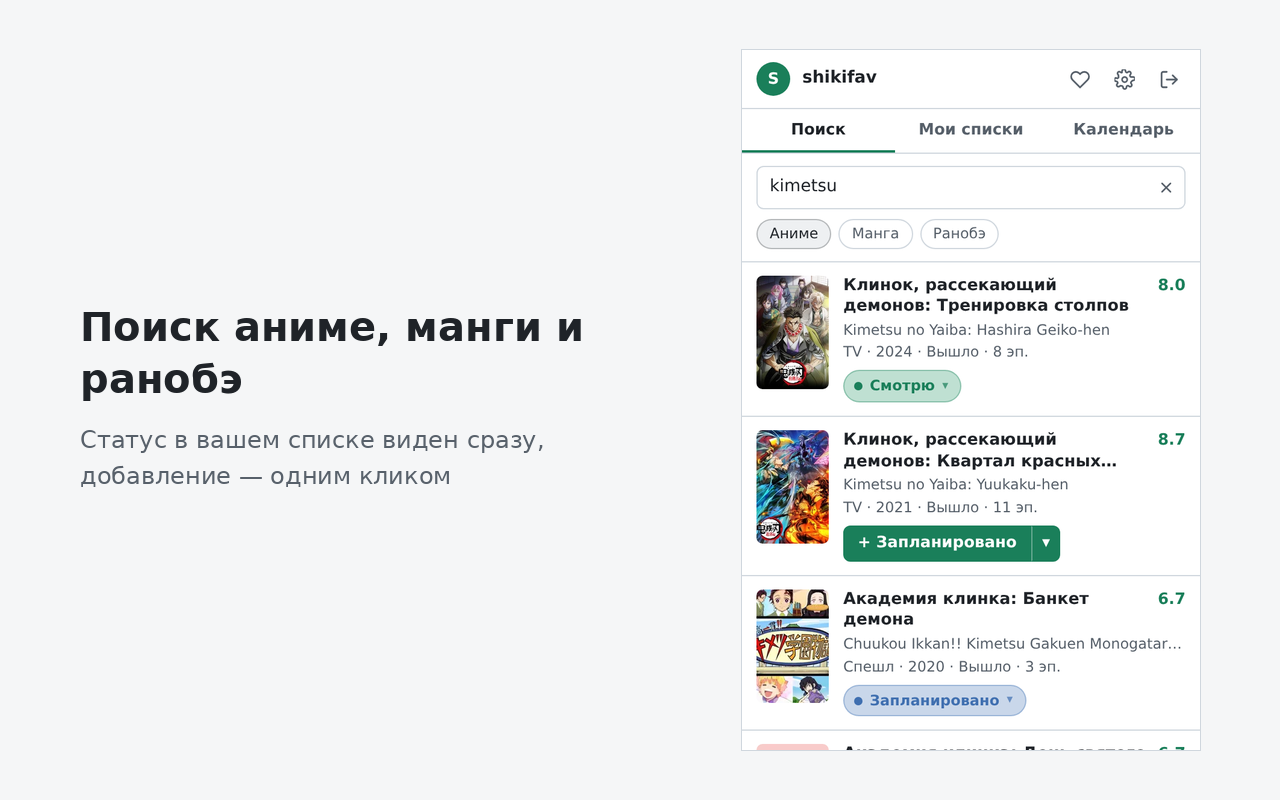
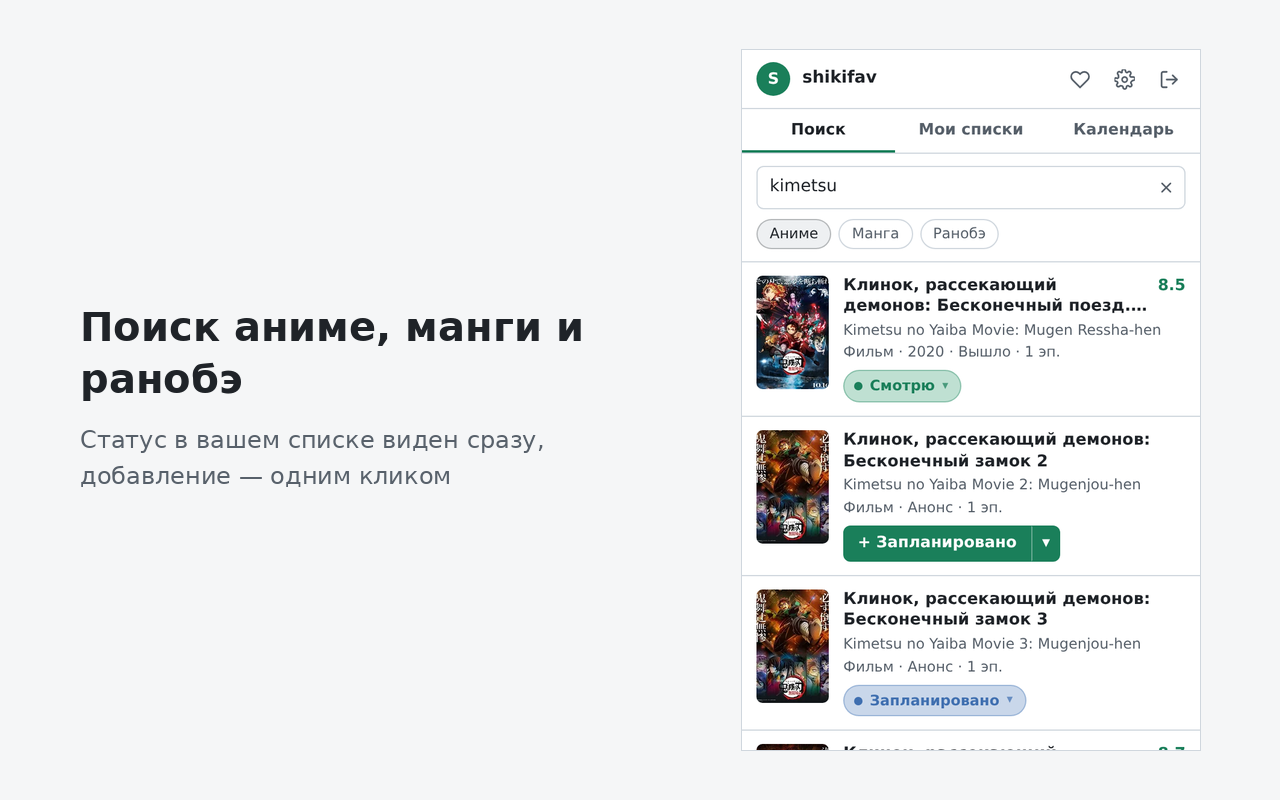
fix(options): the mail link took the settings tab with it
Smoke on the live build found the case the guard could not: with Gmail
registered as the `mailto:` handler, a link without `target` navigates the
settings tab itself to the compose form — the page the user was reading simply
disappears, and back returns them to a different section. That is worse than
the blank tab we were avoiding, so the mail line goes back to what every other
line does: a new tab, the external-link icon, `rel` intact. The icon no longer
promises "a website" but "opens separately, this page stays" — which is what it
meant to a reader all along. Whoever has no handler registered gets an empty
tab, and that is the accepted price.

The branch this removes is worth noting: with the exception gone, the template
has one rule for every link again, and `SupportItem.external` and `isHttpsUrl`
existed only to feed it.

Narrow window got the second finding: under the tab row the divider sat two
pixels from the first heading, so the content read as glued to the switcher.
Fourteen pixels of padding put it at the same distance the blocks keep from
each other.

Screenshots retaken on refreshed demo data — the calendar had aged into a
single «date not announced» group, which is the one frame in the set whose
whole point is that it knows the dates.

Changed region(s): [[0.5938, 0.7188, 0.9062, 0.9375], [0.5938, 0.5312, 0.9375, 0.6875], [0.5938, 0.3438, 0.9062, 0.5]]

diff --git a/entrypoints/options/OptionsPage.vue b/entrypoints/options/OptionsPage.vue
@@ -246,29 +246,35 @@
                                 :key="item.id"
                                 class="sup__item"
                             >
-                                <!-- The mail line is the same link, minus the
-                                     new-tab attributes: on a mailto: address
-                                     target="_blank" leaves an empty tab hanging
-                                     in Chrome when no mail handler is
-                                     registered. -->
+                                <!-- One rule for every line of the section, mail
+                                     included: a new tab, and this page stays
+                                     where it is. The mail line used to be the
+                                     exception, until the smoke of 2026-08-10
+                                     showed what that costs — with a web handler
+                                     registered for mailto: (Gmail), a link
+                                     without target navigates the settings tab
+                                     itself onto a compose form, and the settings
+                                     are simply gone. The price of the rule is an
+                                     empty tab for whoever has no handler at all;
+                                     that is the smaller loss. -->
                                 <a
                                     v-if="item.href"
                                     class="sup__name"
                                     :href="item.href"
-                                    :target="item.external ? '_blank' : undefined"
-                                    :rel="item.external ? 'noopener noreferrer' : undefined"
+                                    target="_blank"
+                                    rel="noopener noreferrer"
                                 >
                                     <!-- The underline lives on the text, not on
                                          the link: on the link it would run
                                          under the icon too. -->
                                     <span class="sup__text">{{ item.label }}</span>
-                                    <!-- External only: the glyph promises a new
-                                         tab, and mail does not open one.
-                                         aria-hidden: «opens in a new tab» said
-                                         five times in a row is noise, the glyph
-                                         and the convention are enough. -->
+                                    <!-- The glyph promises «opens separately,
+                                         this page stays» — which is now true of
+                                         mail too. aria-hidden: «opens in a new
+                                         tab» said five times in a row is noise,
+                                         the glyph and the convention are
+                                         enough. -->
                                     <svg
-                                        v-if="item.external"
                                         class="sup__ext"
                                         viewBox="0 0 24 24"
                                         fill="none"
@@ -335,7 +341,6 @@ import { DEFAULT_ORIGIN, ORIGINS } from '@/src/lib/config';
 import type { Origin } from '@/src/lib/config';
 import { DONATION_METHODS, payHref, SUPPORT_ACTIONS, supportHref } from '@/src/lib/donations';
 import type { SupportActionId } from '@/src/lib/donations';
-import { isHttpsUrl } from '@/src/lib/external-url';
 import { apiErrorMessage, i18n, statusLabel } from '@/src/lib/i18n';
 import { sendMessage } from '@/src/lib/messaging';
 import {
@@ -578,12 +583,6 @@ interface SupportItem {
     label: string;
     note: string;
     href: string | null;
-    // Whether the href leaves the browser for a page — the template hangs the
-    // new-tab attributes and the glyph on this, and a mailto: row gets neither.
-    // Decided from the href itself (isHttpsUrl), not from a second pass over the
-    // config: what the row shows must follow the address it actually renders,
-    // and what counts as https is the guard's business, not the page's.
-    external: boolean;
 }
 
 interface SupportBlock {
@@ -610,7 +609,6 @@ const METHOD_ITEMS: readonly SupportItem[] = DONATION_METHODS.flatMap((method) =
                   label: method.label,
                   note: method.hint,
                   href,
-                  external: isHttpsUrl(href),
               },
           ];
 });
@@ -635,7 +633,6 @@ const ACTION_ITEMS: readonly SupportItem[] = SUPPORT_ACTIONS.filter(
         id: action.id,
         ...SUPPORT_ACTION_TEXT[action.id],
         href,
-        external: isHttpsUrl(href),
     };
 });
 
@@ -1084,6 +1081,11 @@ a.sup__name {
     .options__panel {
         grid-area: 2 / 1 / 3 / 2;
         min-height: 0;
+        /* 14, not 16: `.opt:first-child` adds its own 2px on top, so the first
+           heading sits 16px below the rule — the gap the blocks keep between
+           each other. Wide mode has the rule beside the panel, not above it,
+           and needs none of this. */
+        padding-top: 14px;
         padding-left: 0;
         border-left: 0;
     }

diff --git a/src/components/OptionsPage.test.ts b/src/components/OptionsPage.test.ts
@@ -60,11 +60,12 @@ async function mountPage(
         // Content of the «Поддержать» section (Ф8-2). No longer empty in the
         // shipped build — it carries the Boosty method and the mail line — and
         // mocked for exactly that reason: what these tests pin is how a row is
-        // rendered (link or text, new tab or not, a method dropped when its
-        // address is unusable), not which addresses the owner happens to ship.
-        // Stating the list per test keeps a hand-edited config out of the
-        // assertions, and lets a test ask for a state the real one does not
-        // have — an empty list, a dead address, both kinds of link at once.
+        // rendered (link or text, the same new-tab attributes on every live
+        // link, a method dropped when its address is unusable), not which
+        // addresses the owner happens to ship. Stating the list per test keeps a
+        // hand-edited config out of the assertions, and lets a test ask for a
+        // state the real one does not have — an empty list, a dead address,
+        // both kinds of address at once.
         donations?: { methods?: readonly DonationMethod[]; actions?: readonly SupportAction[] };
         // Replaces a handler with a failing (or otherwise special) one; the
         // defaults below are the happy path.
@@ -870,14 +871,23 @@ describe('OptionsPage (Ф6-3)', () => {
         });
 
         // The report line is a mailto: address (the repository is not public,
-        // so a letter is the only way through). It is the same link as the
-        // others minus the new-tab attributes and the glyph: target="_blank" on
-        // a mailto: leaves an empty tab hanging in Chrome when no mail handler
-        // is registered, and the glyph would promise a tab that never opens.
-        // Both halves in one test on purpose — the branch is decided from the
-        // href, so an https row next to it is what proves it is a branch and
-        // not the attributes having been dropped for everybody.
-        it('renders a mail address as a link that promises no new tab', async () => {
+        // so a letter is the only way through), and it is rendered exactly like
+        // every other line of the section — new tab, rel, glyph.
+        //
+        // It used to be the exception, on the reasoning that target="_blank" on
+        // a mailto: leaves an empty tab hanging when no mail handler is
+        // registered. The owner's smoke of 2026-08-10 showed the other half of
+        // that trade: with a web handler registered for mailto: (Gmail), a link
+        // WITHOUT target navigates the settings tab itself onto a compose form,
+        // and the settings are gone. An empty tab for whoever has no handler is
+        // the smaller loss, so the exception was dropped — do not «fix» this
+        // test back to promising no new tab.
+        //
+        // Both rows in one mount on purpose: after the branch was removed, an
+        // https row rendered beside the mail one is what shows the two really
+        // agree, instead of the attributes having quietly gone missing from
+        // both.
+        it('renders a mail address as a link into a new tab, like every other line', async () => {
             const { container } = await mountPage({
                 donations: {
                     methods: [],
@@ -894,9 +904,9 @@ describe('OptionsPage (Ф6-3)', () => {
             const mailLink = find(mail, 'sup__name');
             expect(mailLink.tag).toBe('a');
             expect(mailLink.props.href).toBe('mailto:x@y.test');
-            expect(mailLink.props.target).toBeUndefined();
-            expect(mailLink.props.rel).toBeUndefined();
-            expect(findAll(mail, 'sup__ext')).toHaveLength(0);
+            expect(mailLink.props.target).toBe('_blank');
+            expect(mailLink.props.rel).toBe('noopener noreferrer');
+            expect(findAll(mail, 'sup__ext')).toHaveLength(1);
 
             const webLink = find(web, 'sup__name');
             expect(webLink.props.href).toBe('https://store.test/x');

diff --git a/src/lib/external-url.ts b/src/lib/external-url.ts
@@ -12,15 +12,6 @@ export function httpsHref(url: string | null | undefined): string | null {
     return url?.startsWith('https://') ? url : null;
 }
 
-// The same rule asked as a question. A caller that already holds a guarded
-// address and only needs to know whether it opens a page in the browser — new
-// tab, `rel`, the «external» glyph — asks here instead of testing the prefix a
-// second time: which schemes exist is this file's business, and `https://`
-// stays one literal in one place.
-export function isHttpsUrl(url: string | null | undefined): boolean {
-    return httpsHref(url) !== null;
-}
-
 // The mail counterpart, on purpose a second function instead of a second scheme
 // allowed inside httpsHref. That guard also feeds the <img src> of posters and
 // avatars, where a mailto: address means nothing: widening it would hand the

diff --git a/docs/06-roadmap.md b/docs/06-roadmap.md
@@ -300,11 +300,13 @@
 - Boosty ведёт на живую страницу `https://boosty.to/chakalabs`, пояснение после тире — «разовый донат на домен и почту проекта», слова «подписка» в разделе нет нигде.
 - «Отзыв в Chrome Web Store» открывает вкладку отзывов карточки расширения, а не её главную страницу.
 - Клик по «Сообщить об ошибке» открывает почтовый клиент с адресом `support@chakalabs.com`; тема и тело письма **пустые** — гард не пропускает `?subject`, `?body` и `?bcc`.
-- Та же строка **не оставляет висеть пустую вкладку**. Если почтовый клиент в системе не зарегистрирован, не происходит ничего — это ожидаемо, адрес виден в строке глазами.
-- Обратный случай, его проверить обязательно: с **веб-обработчиком почты** (Gmail зарегистрирован обработчиком `mailto:` в Chrome) ссылка без `target` уводит **текущую** вкладку на форму письма — то есть страница настроек заменяется, и «назад» возвращает уже на «Вид». Если так и происходит, решение «без новой вкладки» пересматривается: это обратная сторона отказа от `target="_blank"`, и цена может оказаться выше пустой вкладки.
-- Значок «внешняя ссылка» есть у Boosty и у отзыва; у строки почты его нет.
+- Та же строка **может оставить пустую вкладку** — с 2026-08-10 это ожидаемое поведение, а не дефект: почта открывается в новой вкладке, и если почтовый клиент в системе не зарегистрирован вовсе, вкладка останется пустой. Принятая цена решения ниже; адрес при этом виден в строке глазами.
+- **Проверено 2026-08-10, пункт сработал как триггер пересмотра.** С **веб-обработчиком почты** (Gmail зарегистрирован обработчиком `mailto:` в Chrome) ссылка без `target` действительно уводила **саму вкладку настроек** на форму письма — настройки исчезали. Решение «без новой вкладки» пересмотрено владельцем в пользу `target="_blank"` для всех ссылок раздела, включая почту: подменённые настройки дороже пустой вкладки (docs/05-ui.md, «Ссылки»).
+- Значок «внешняя ссылка» есть у всех ссылок раздела, включая почту: с 2026-08-10 он означает «откроется отдельно, эта страница останется».
 - Строки «Подписаться на канал в Telegram» в разделе нет вовсе — адреса у неё пока не существует.
 - Светлая и тёмная тема, окно ~600 px: три строки «Как ещё помочь» не слипаются, адрес почты не переносится посреди слова, панель не прыгает по высоте при переключении разделов.
+
+**Итог прогона (владелец, 2026-08-10):** остальные пункты пройдены без замечаний; кроме почты правка одна — в узком окне заголовок первого блока прилипал к линии под табами, панель получила `padding-top: 14px` (docs/05-ui.md, «Узкое окно»).
 
 ## Фаза 9 — Публикация в Chrome Web Store — ЗАКРЫТА 2026-08-06 (расширение опубликовано, вход на магазинной сборке проверен владельцем)
 Выбрана владельцем вперёд продуктовых фаз: раздел поддержки (фаза 8) делался ради сторонних пользователей, а до публикации их нет. Фаза почти не про код — про листинг, юридические тексты и два технических узла, которые ломают вход, если их проглядеть.

diff --git a/docs/07-store-listing.md b/docs/07-store-listing.md
@@ -120,7 +120,7 @@
 | `store-3-calendar.png` | календарь: группы по дням, время, отставание, долгожитель без «из N» |
 | `store-4-lists-dark.png` | тёмная тема на том же экране |
 | `store-5-options.png` | настройки, раздел «Поведение» |
-| `store-6-options-support.png` | раздел «Поддержать» в пустом состоянии (кадр снят до появления площадки) |
+| `store-6-options-support.png` | раздел «Поддержать»: Boosty и три бесплатных способа (переснят 2026-08-10, после появления площадки) |
 
 **Загружаются пять из шести.** Консоль принимает максимум пять скриншотов (проверено формой 2026-08-05, руководство советует загружать все пять). Не едет `store-6-options-support.png`: заголовок, две строки и три четверти пустого экрана — он не показывает ни одной функции, ради которой ставят расширение. Побочное следствие приятное: раздела «Поддержать» в витрине нет, поэтому появление ссылки на Boosty не потребует правки листинга, а правка листинга после публикации — это повторное ревью. Порядок загрузки: поиск → списки → календарь → тёмная тема → настройки, первый кадр решает больше остальных.
 
